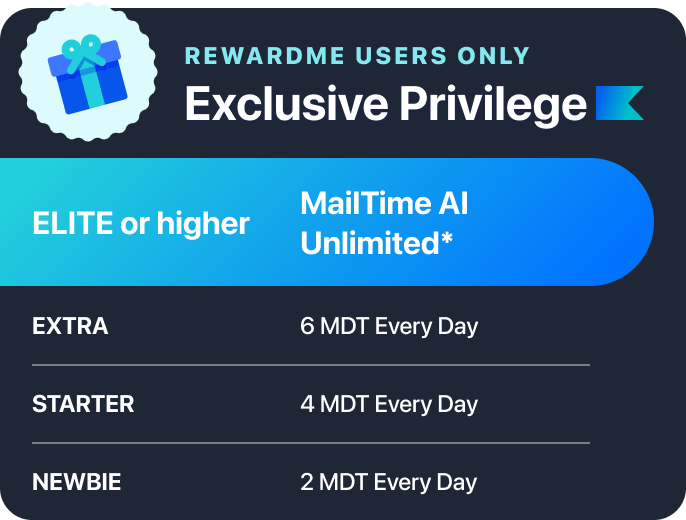
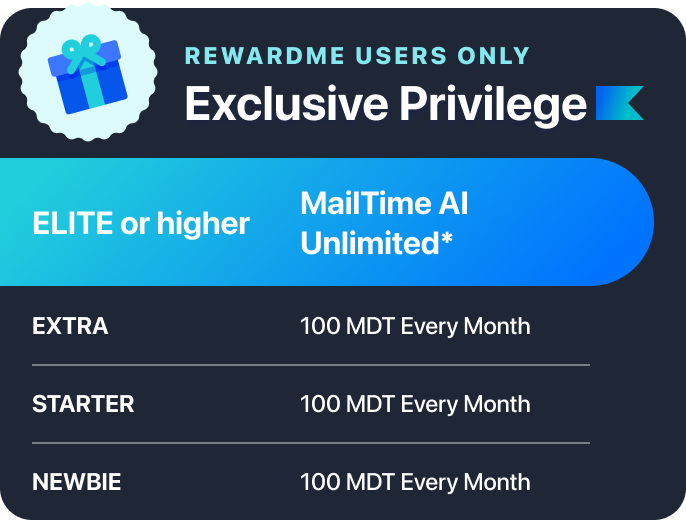
Update faq page and images

Changed region(s): [[0.4286, 0.8923, 0.7653, 0.9538], [0.4286, 0.7385, 0.7959, 0.8], [0.4286, 0.5846, 0.7959, 0.6462]]

diff --git a/src/pages/app/faq.js b/src/pages/app/faq.js
@@ -143,7 +143,7 @@ const FaqList = [
         <p className="mt-[2.1rem]">
           <b>
             Upon activation of MailTime AI, users will receive an initial
-            allocation of 2 MDTs.
+            allocation of 100 MDTs.
           </b>{" "}
           When users exhaust their balance, they can continue their use either
           through purchasing MailTime AI Credits, or become a tiered member of
